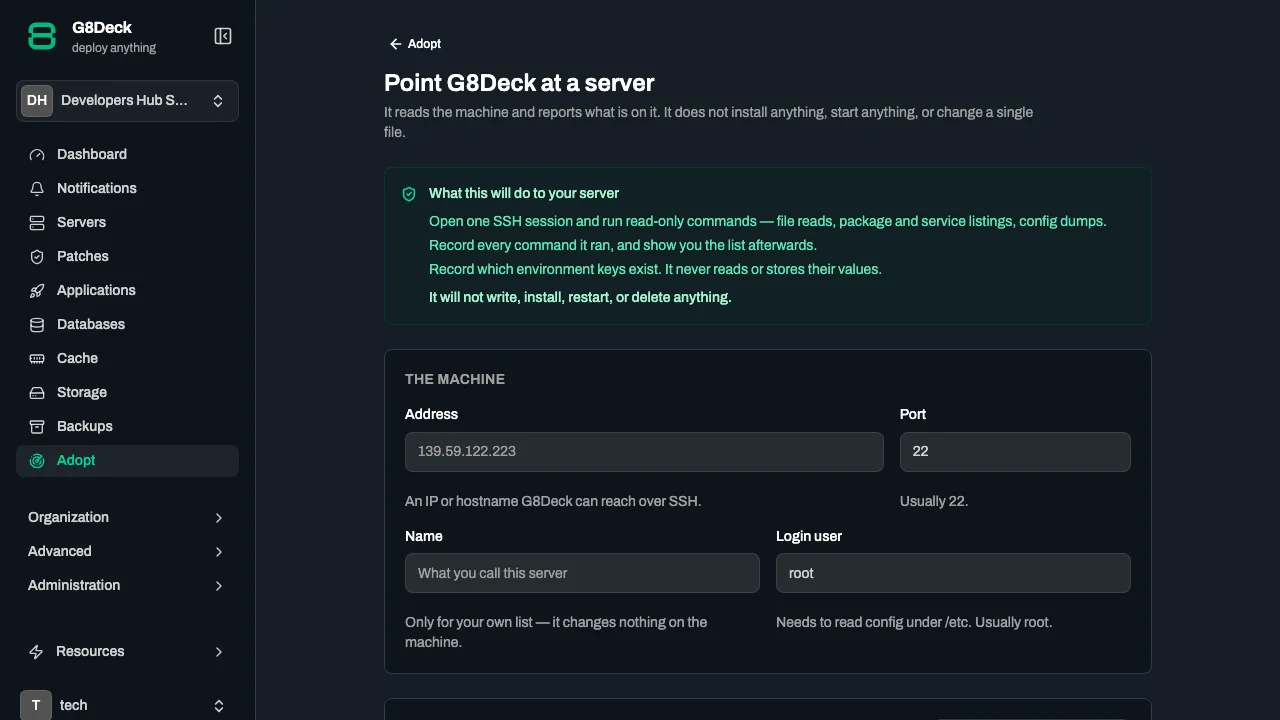
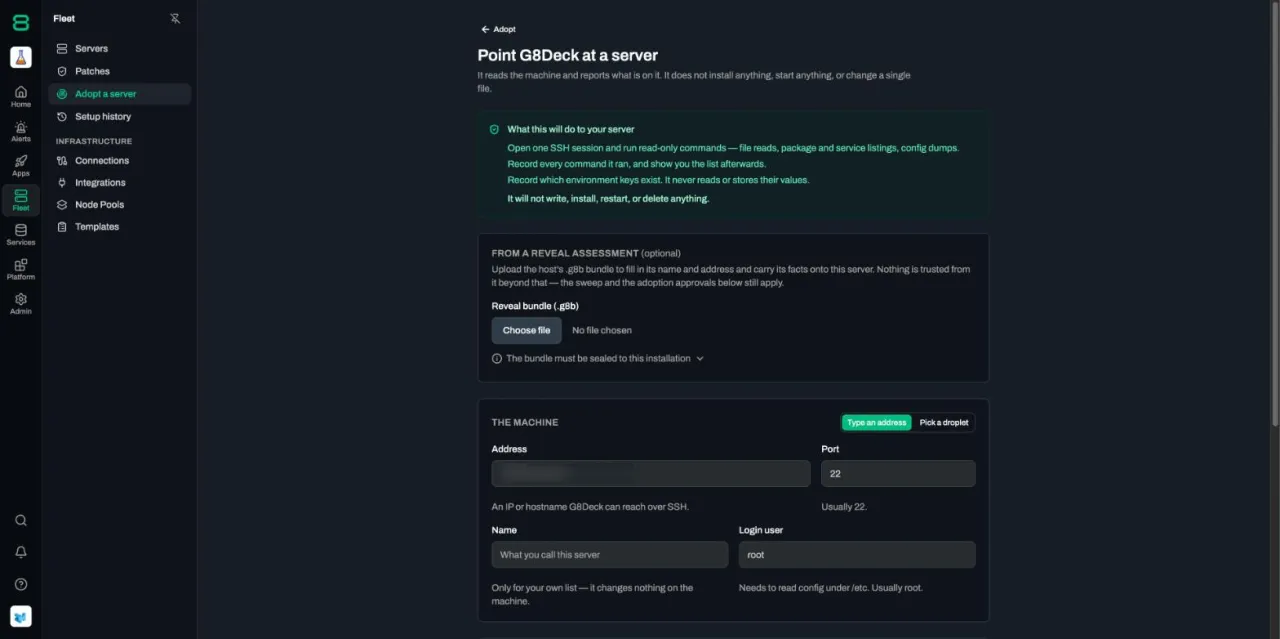
docs: retake console screenshots on the area rail + panel
Eleven captures that showed the old 256px sidebar are retaken from the
Demo organisation on the new rail, and the Navigating page gains two:
the Simple/Advanced switch and page search. Alt text follows what the
new frames show. Pages that need servers or applications to mean
anything keep their old captures until Demo has sample data.

diff --git a/src/docs/navigating-g8deck.md b/src/docs/navigating-g8deck.md
@@ -59,6 +59,8 @@ Every page you are allowed to open is in one of two lists:
 - **Advanced** lists every page you can open, including the operator pages —
   deployments in detail, blueprints, connections, security and sources.
 
+![The rail of areas with the Apps panel docked beside it, and the avatar menu open on its Navigation switch between Simple and Advanced](/docs/navigating-g8deck/navigation-mode.webp)
+
 Switch between them from your avatar menu, under **Navigation**. Members start
 in Simple; administrators start in Advanced. The choice is yours and is kept on
 your account.
@@ -74,6 +76,8 @@ Press **Cmd-K** (macOS) or **Ctrl-K** (Windows and Linux), or use the search
 icon on the rail or the top bar. Search lists every page you can open, in either
 mode, and understands everyday words — _providers_, _k8s_, _cve_, _docker_ —
 as well as page names.
+
+![Page search open over the console: every page you can open with the area it sits in, and an Advanced tag on the pages Simple hides](/docs/navigating-g8deck/search.webp)
 
 ## The Platform overview
 

diff --git a/src/docs/caches.md b/src/docs/caches.md
@@ -23,7 +23,7 @@ that agree can share one.
 | **Install a new instance**     | Installs the engine, writes its own unit on the port you choose, sets a generated password and opens the firewall to your allowlist |
 | **Record one already running** | Records what it finds and changes nothing — no port move, no config rewrite, no firewall change                                     |
 
-![Create a cache instance: install a new one or record one already running, then name and server](/docs/caches/new-cache.webp)
+![Create a cache instance: install a new one or record one already running, then name, server, engine and port](/docs/caches/new-cache.webp)
 
 | Field                         | Notes                                                                                   |
 | ----------------------------- | --------------------------------------------------------------------------------------- |

diff --git a/src/docs/first-deployment.md b/src/docs/first-deployment.md
@@ -41,7 +41,7 @@ lands in the organisation that was active when you created it.
 Open **Fleet › Servers** and choose **Connect a Server**. The wizard has three steps,
 and nothing is queued until the machine has answered a pre-flight probe.
 
-![The Connect a Server wizard: server name, where the machine is hosted, its address and port, and how G8Deck should authenticate](/docs/connect-a-server/connect-wizard.webp)
+![The Connect a Server wizard: an optional DigitalOcean machine picker, then server name, where the machine is hosted, its address and port, and how G8Deck should authenticate](/docs/connect-a-server/connect-wizard.webp)
 
 1. **Connection** — a name, where the machine is hosted (DigitalOcean, AWS,
    Google Cloud, Azure, Hetzner or Other — every one of them is reached over

diff --git a/src/docs/databases.md b/src/docs/databases.md
@@ -35,7 +35,7 @@ SQLite is not a server — see [SQLite files](#sqlite-files) below.
 **Set up a database server** opens a three-step wizard: _Server & engine_,
 _Network & access_, _Review_.
 
-![Set up a database server: install a new server or adopt an existing one, the server picker, and the engine cards](/docs/databases/new-database-server.webp)
+![Set up a database server: install a new server or adopt an existing one, the server picker with its notice when no server has finished setup, and the engine cards](/docs/databases/new-database-server.webp)
 
 **Set up a new server** installs the engine on a server G8Deck has finished
 setting up, moves it to a non-default port, and opens it to exactly the

diff --git a/src/docs/object-storage.md b/src/docs/object-storage.md
@@ -21,7 +21,7 @@ runs for you, and buckets you already own somewhere else.
 | **Adopt one that already runs** | Records a Garage that already runs and changes nothing on the machine                    |
 | **Connect an existing bucket**  | Keeps a credential for a bucket you own elsewhere; your provider keeps the bucket        |
 
-![Add storage: the three modes, the server picker and the redundancy choice](/docs/object-storage/new-storage-server.webp)
+![Add storage: the three modes, the server picker with its notice when no server is available, and the redundancy choice](/docs/object-storage/new-storage-server.webp)
 
 ### A storage server
 

diff --git a/src/docs/connect-a-server.md b/src/docs/connect-a-server.md
@@ -31,7 +31,7 @@ administrator of the organisation.
 Three steps. Nothing is queued until the machine has answered a pre-flight
 probe.
 
-![Step one of Connect a Server: the server name, where it is hosted, the address and port, and the credential](/docs/connect-a-server/connect-wizard.webp)
+![Step one of Connect a Server: pick a machine from a connected DigitalOcean account or type an address, then the server name, where it is hosted, the address and port, and the credential](/docs/connect-a-server/connect-wizard.webp)
 
 ### 1. Connection
 

diff --git a/src/docs/adopt-a-server.md b/src/docs/adopt-a-server.md
@@ -14,7 +14,7 @@ copied until you ask for a data migration.
 
 Panels G8Deck recognises today: **RunCloud** and **plain nginx**.
 
-![The Adopt page: counts of machines, sweeps and applications found, and the empty state inviting you to connect a server](/docs/adopt-a-server/adopt.webp)
+![The Adopt page, open from the Fleet panel: counts of machines, sweeps and applications found, and the empty state inviting you to connect a server](/docs/adopt-a-server/adopt.webp)
 
 ## 1. Point G8Deck at the server
 

diff --git a/src/docs/blueprints.md b/src/docs/blueprints.md
@@ -64,7 +64,7 @@ Answering any slot of the sentence clears the pinned blueprint, so the template
 and the sentence can never disagree on screen: whatever you last touched is
 what you get.
 
-![The Blueprints list: system and custom blueprints with their topology, layer count and origin](/docs/blueprints/blueprints.webp)
+![The Blueprints list under Apps › Design: system and custom blueprints with their topology, layer count and origin](/docs/blueprints/blueprints.webp)
 
 ## Where the editor lives
 
